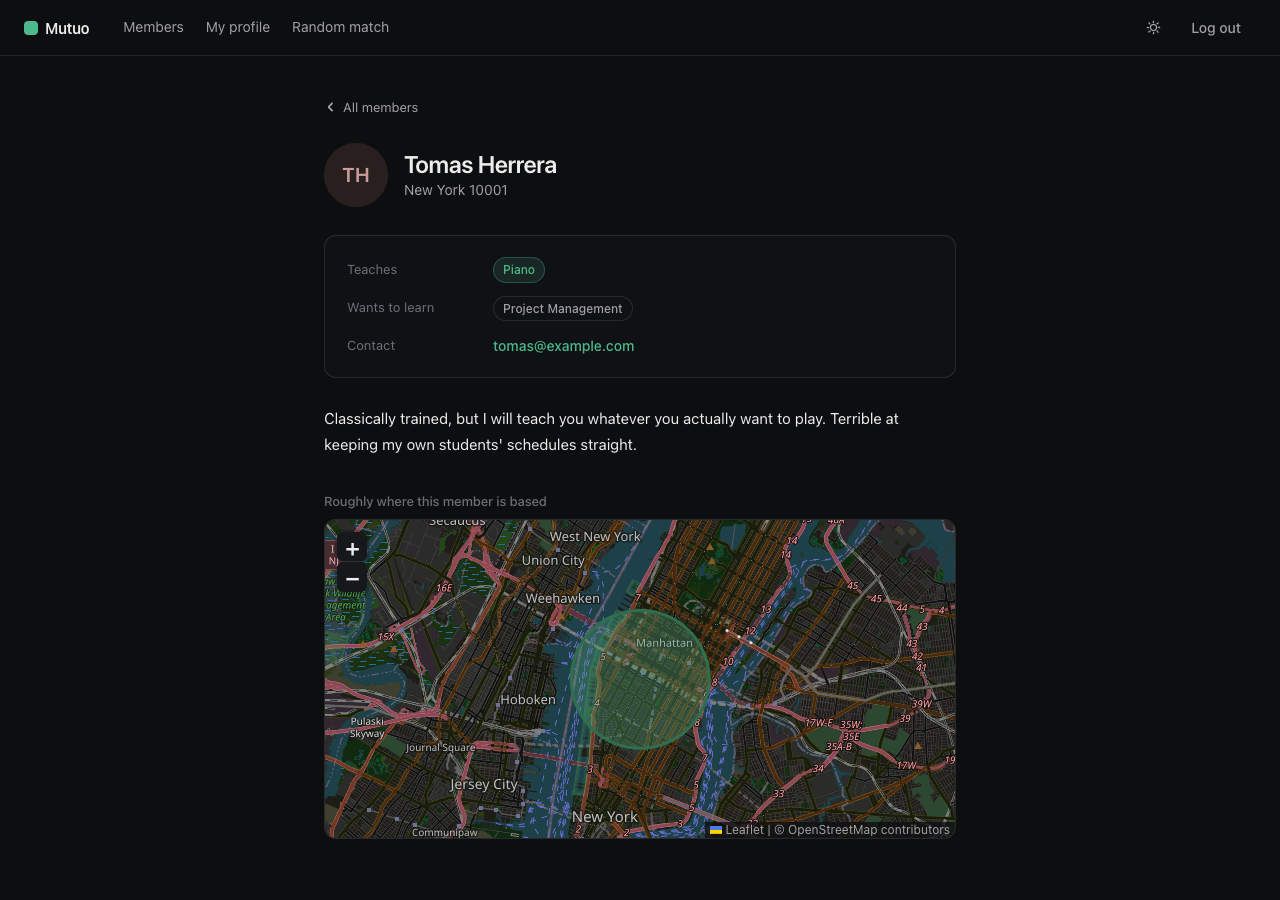
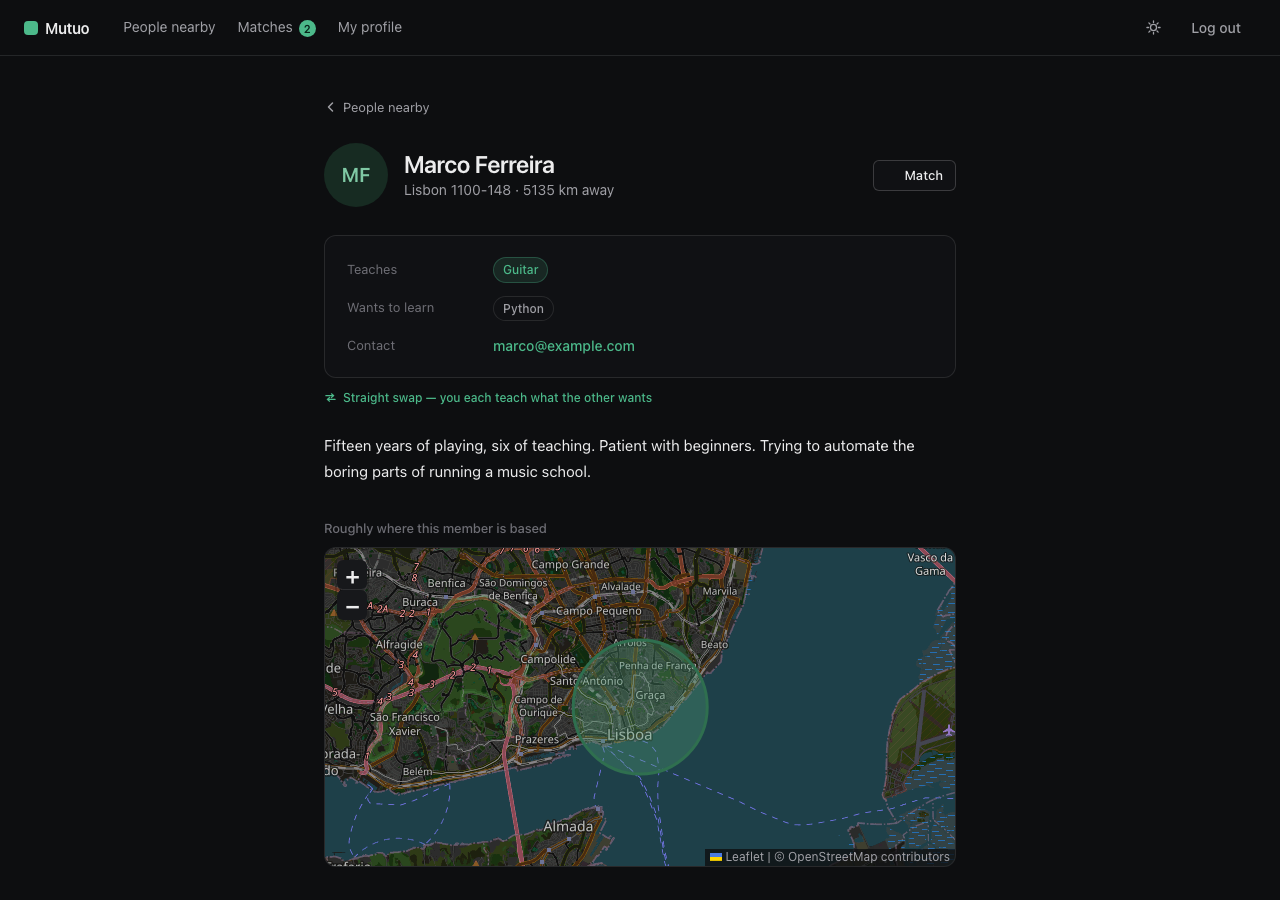
Retake the screenshots and correct what the README had outgrown
The four images at the top were of an interface that no longer exists: a
Members / My profile / Random match menu, a random match on a page of its
own, and cards with no swap note, no distance and no match button. They have
been flagged as needing retaking for two commits. Retaken, against a freshly
seeded fifty, plus a fifth for the matches page, which had no picture at all.

The captions do more than name the picture now. The directory shot leads with
why a straight swap in Lisbon sits above a neighbour, because that ordering
is the one thing about this app a reader will not guess.

Corrections, all of them things that were true when written:

- "The feature set is deliberately unchanged" had stopped being true. The
  second pass left it alone on purpose and the README said so; a third pass
  changed it, and the sentence quietly turned into a false claim about the
  work. Both passes are now described as what they were.
- "37 tests, roughly two seconds" — sixty-five, and a few seconds.
- "the API's real limits are set high enough that the end-to-end suite never
  trips them" is now exactly backwards: the suite signs up more members than
  the signup budget allows in an hour and clears the limiters between tests.
- "seed.js is built as six reciprocal pairs" — twenty-five.
- Known limits said sync() "does not migrate" and to reach for sequelize-cli.
  Still true in the large, but it now understates the trap and ignores the
[…]

diff --git a/README.md b/README.md
@@ -16,25 +16,31 @@ Express · Sequelize · Passport · SQLite/Postgres · jQuery
 commands — see [Getting started](#getting-started). Either way the database is
 seeded with fifty members, so the directory has something in it on first load.
 
-People nearby, mid-search. Every card carries the skill a member teaches and the
-one they want; the two below are a reciprocal pair, which is what the seed data
-is built to show.
+**People nearby.** Cards lead with the one thing a skill-swapping app is for:
+whether a trade is possible at all. A straight swap in Lisbon outranks a
+neighbour who teaches nothing you want — and the neighbour four kilometres away
+who *does* teach it comes second, not fortieth. Distance decides everything
+within a group, and the **Within** control bounds the lot.
 
-![The member directory, filtered by a search for Piano](docs/directory.png)
+![People nearby, showing straight swaps and one-way overlaps ahead of members sorted by distance](docs/directory.png)
 
-A profile. The map places a member by postal code and never more precisely than a
-circle, so a directory of strangers does not double as a list of addresses.
+**Matching is one-directional and needs no acceptance.** Press Match; if they
+press it back, the pair is mutual, the count on the nav item tells you so, and
+their address turns into a link. Mutual matches sort to the front — those are
+the ones where something can actually happen.
 
-![A member's profile, with a map of roughly where they are based](docs/profile.png)
+![The matches page, with two mutual matches ahead of one that has not been answered](docs/matches.png)
 
-And when nobody in particular stands out, Mutuo deals you someone.
+**A profile.** The map places a member by postal code and never more precisely
+than a circle, so a directory of strangers does not double as a list of
+addresses.
 
-![The random match, having dealt a member](docs/match.png)
+![A member's profile, with a swap note and a map of roughly where they are based](docs/profile.png)
 
-> The screenshots above predate the current interface — they show a **Members /
-> My profile / Random match** menu, a random match on a page of its own, and
-> cards with no swap note, distance or match button. The menu is now **People
-> nearby / Matches / My profile**. They want retaking.
+**And when nobody in particular stands out, Mutuo picks.** Not uniformly — from
+the people a swap is possible with, inside whatever distance you have set.
+
+![The random match, having picked a member who teaches what you want](docs/match.png)
 
 Nothing above is visible without a session — the directory is full of people, and
 `/api/profiles` is behind the same guard as the page that draws it. So the demo
@@ -57,10 +63,18 @@ was still learning the stack. I came back to it later and treated it the way I
 would treat an unfamiliar codebase at work: read it end to end, wrote tests that
 pinned down what it actually did, and fixed what those tests exposed.
 
-Most of what follows is that second pass. The feature set is deliberately
-unchanged; what changed is whether it holds up. **The table below is the
-record** — every defect in it was reproduced with a failing test before it was
-fixed, and every one of those tests is still in the suite. `npm test` runs them.
+Most of what follows is that second pass, and for the whole of it the feature set
+was deliberately left alone: what changed was whether it held up. **The table
+below is the record** — every defect in it was reproduced with a failing test
+before it was fixed, and every one of those tests is still in the suite.
+`npm test` runs them.
+
+A third pass has since changed the feature set, because holding up is not the
+same as being worth using. The app sorted a directory by insertion order and left
+the reader to work out, card by card, whether a trade was even possible — in an
+app whose entire premise is trading. That work is described under
+[Architecture](#architecture): distance that means something, an ordering that
+leads with a possible swap, and matching that tells the other person.
 
 ## What the second pass found
 
@@ -98,7 +112,7 @@ limiter now owns its store, and a test pins that down.
 
 ```
 app.js                 Express app: middleware, session, routes, error handling
-server.js              Entry point: syncs the schema, then listens
+server.js              Entry point: readies the schema, then listens
 config/
   config.js            Per-environment database settings, read from the environment
   passport.js          Local email/password strategy and session serialisation
@@ -148,15 +162,22 @@ random match is a button on the nearby page rather than a destination of its own
 once, when the profile is saved (`config/locate.js`), and stored on the row.
 Distance is then a great-circle calculation from the asker's own coordinates.
 Geocoding on read instead would mean one lookup per member per page load against
-a service that permits about one a second — the better part of a minute for
-fifty members, and many times over its queue limit besides. A member whose postal code cannot be
-placed sorts to the end rather than disappearing. A **Within** control bounds the
-list, and everything past the bound folds into a *Farther away* section rather
-than vanishing — a page called "people nearby" that leads with someone 16,000 km
-away is arguing with its own title.
+a service that permits about one a second — the better part of a minute for fifty
+members, and many times over its queue limit besides. A member whose postal code
+cannot be placed sorts to the end rather than disappearing. A **Within** control
+bounds the list, and everything past the bound folds into a *Farther away*
+section rather than vanishing — a page called "people nearby" that leads with
+someone 16,000 km away is arguing with its own title.
 
-**A possible swap outranks a short walk.** The seed data is built as six
-reciprocal pairs, and for a long time nothing in the app ever said so: the list
+The demo members are clustered several to a city for the same reason. One member
+per city put the nearest person three hundred kilometres away, which made the
+distance ordering a formality and left the **Within** control unable to return
+anything at all — a filter that can only ever come back empty is worse than no
+filter.
+
+**A possible swap outranks a short walk.** The seed data is built as
+twenty-five reciprocal pairs, and for a long time nothing in the app said so: the
+list
 was sorted by distance and the reader was left to compare two skill pills on
 every card to work out whether a trade was even possible. Each card now says it
 outright — *Straight swap*, *Teaches what you want*, *Wants what you teach* — and
@@ -225,12 +246,22 @@ the member directory.
 npm test
 ```
 
-37 tests, roughly two seconds, no fixtures to maintain. `test/api.test.js` drives
-the real Express app with supertest against a throwaway in-memory SQLite
-database, so the tests exercise routing, session handling, Passport and Sequelize
-together rather than mocking them apart. `test/rate-limit.test.js` covers the
-limiter on its own, against a budget of two, because the API's real limits are
-set high enough that the end-to-end suite never trips them.
+65 tests, a few seconds, no fixtures to maintain. `test/api.test.js` drives the
+real Express app with supertest against a throwaway in-memory SQLite database, so
+the tests exercise routing, session handling, Passport and Sequelize together
+rather than mocking them apart. `test/rate-limit.test.js` covers the limiter on
+its own, against a budget of two.
+
+The end-to-end suite now signs up more members than the signup limiter allows in
+an hour, and every request in it arrives from the same address — so it clears
+both limiters between tests. Otherwise a run long enough starts reporting `429`s
+from tests that only wanted an account to work with, which is the budget becoming
+the subject of tests that are about something else.
+
+Geocoding is the one thing the suite refuses to do: `config/locate.js` returns
+nothing under `NODE_ENV=test` rather than spend a second per saved profile in a
+third-party queue. Anything that cares about distance writes coordinates
+directly.
 
 CI runs `npm run lint && npm test` on Node 18, 20 and 22.
 
@@ -371,7 +402,7 @@ page offers nothing, and the app comes up with an empty directory.
 
 `render.yaml` describes a web service and a Postgres database; point Render at
 the repository and it reads the blueprint. There is also a `Dockerfile` for
-anywhere that takes a container. Both run `server.js`, which syncs the schema
+anywhere that takes a container. Both run `server.js`, which readies the schema
 before it binds a port, and neither involves `api/index.js`.
 
 Note that Render's free Postgres plan **expires 30 days** after it is created and
@@ -381,8 +412,20 @@ is deleted 14 days later, which is why the demo above is not on it.
 
 Honest about what is not production-ready:
 
-- `db.sequelize.sync()` creates tables but does not migrate them. Once there is
-  data worth keeping, switch to `sequelize-cli` migrations.
+- `db.sequelize.sync()` creates tables but never alters one it finds. Adding a
+  column to a model therefore does nothing to a database that already exists, and
+  since Sequelize names every attribute in its `SELECT`, the next query dies on
+  "no such column" — a new deployment is fine and every existing one breaks.
+  `config/schema.js` closes exactly that gap and nothing wider: it looks at what
+  a table has and adds what it is missing. Renames, type changes and drops are
+  all still unhandled, and `sync({ alter: true })` is not the answer because it
+  performs them. Once there is data worth keeping, switch to `sequelize-cli`
+  migrations.
+- The nearby list is loaded, ranked and sorted in memory, because the distance is
+  a haversine against the asker's own coordinates and writing that as an
+  `ORDER BY` means writing it once per dialect. Fine for a directory of this
+  size; the thing to add before the trigonometry moves into SQL is a bounding box
+  in the `WHERE` clause.
 - The rate-limit counters and the geocode cache are per-process and in memory.
   Behind more than one process each enforces its own budget; a shared store
   (Redis) is the fix. Sessions are already in the database and do not have this
